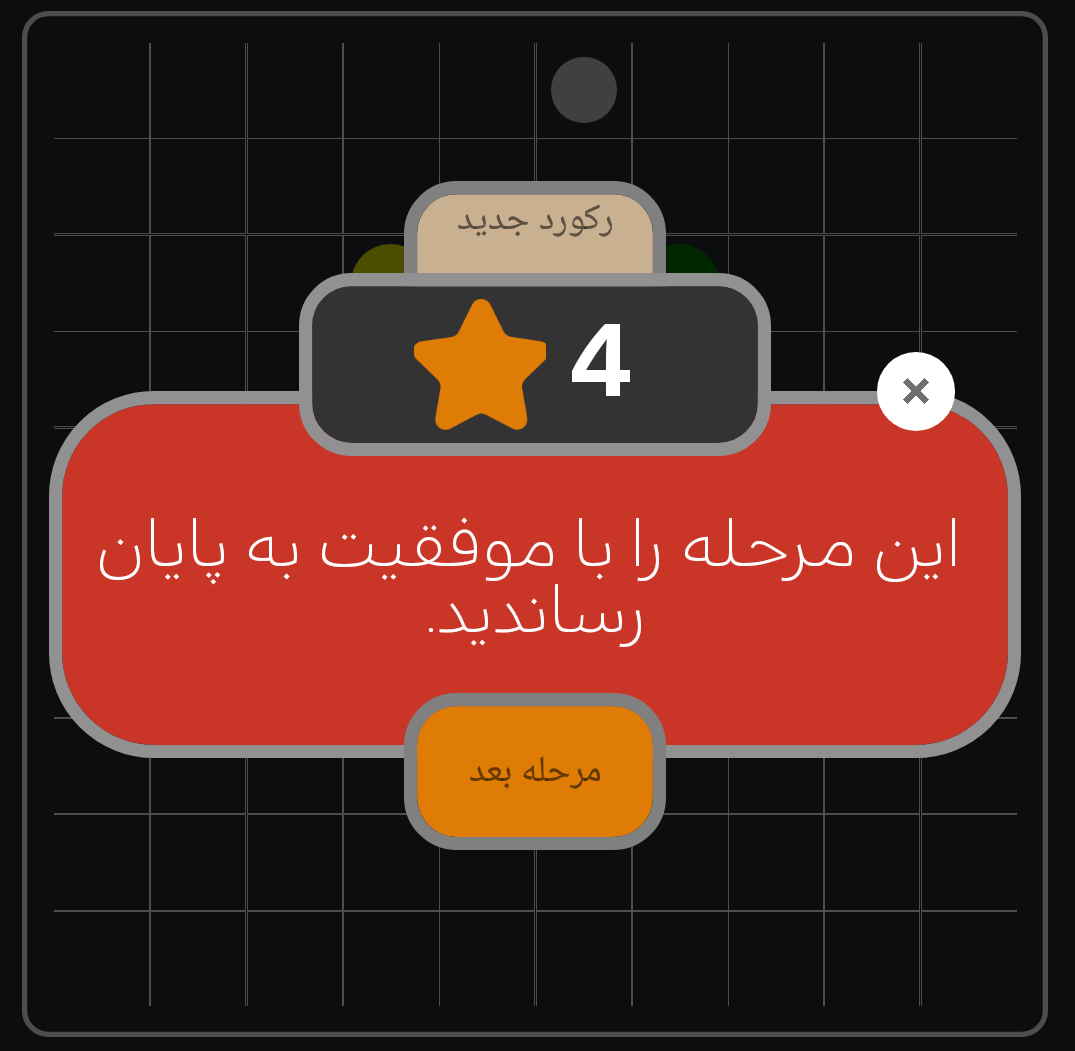
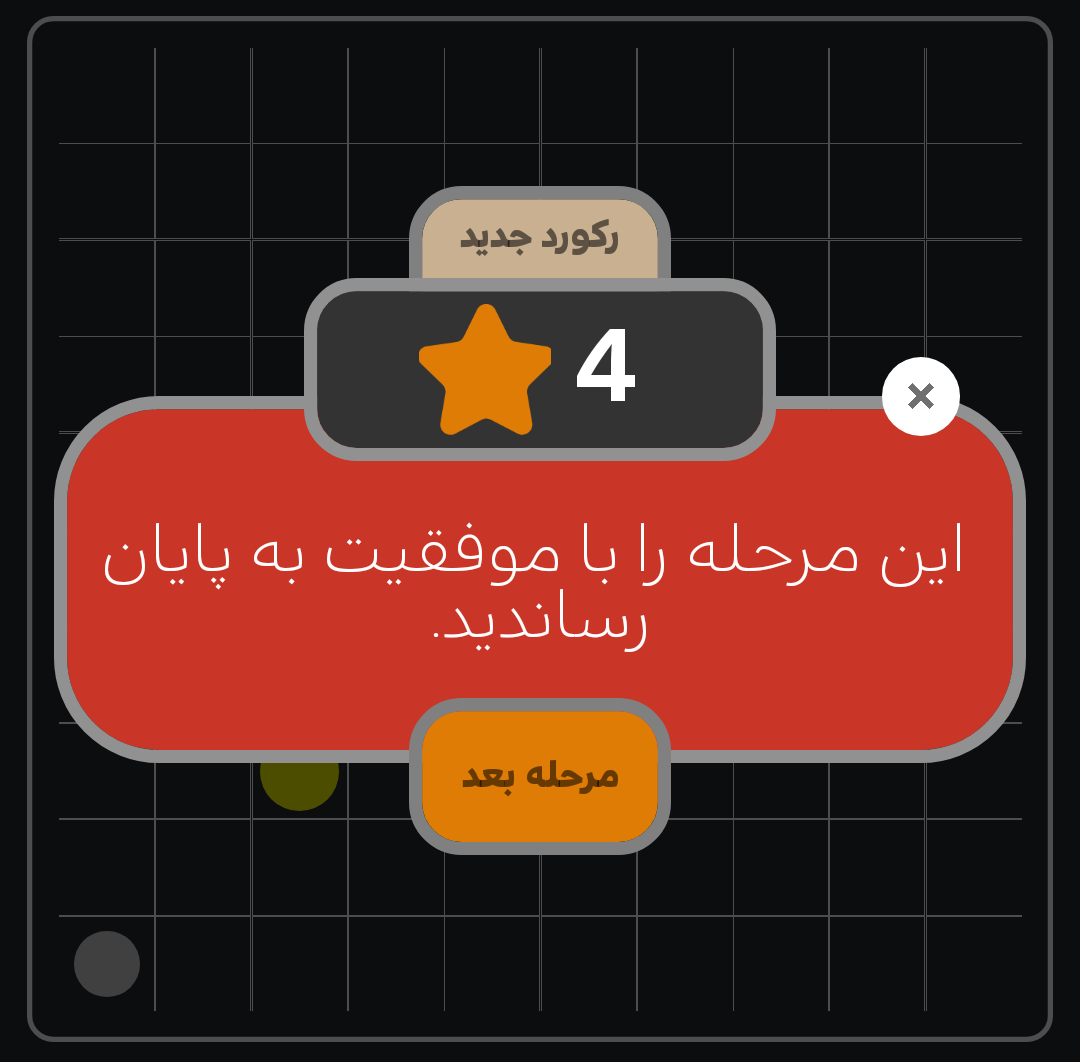
change color win and touch area

diff --git a/src/routes/intro/container.js b/src/routes/intro/container.js
@@ -18,6 +18,7 @@ const slides = [
     {
         key: 'empty-board',
         title: 'صفحه خالی',
+        titleStyle: {fontSize: 20, fontFamily: 'DiodrumArabic-Bold', color: COLOR.AJORY},
         text: 'برای شروع بازی باید در صفحه خالی روی یکی از خانه های مربع کلیک کنید.',
         image: require('../../assets/img/empty-board.png'),
         imageStyle: styles.image,
@@ -26,6 +27,7 @@ const slides = [
     {
         key: 'available',
         title: 'قواعد حرکتی',
+        titleStyle: {fontSize: 20, fontFamily: 'DiodrumArabic-Bold', color: COLOR.AJORY},
         text: 'هر نقطه ای که باشید فقط مجاز به انتخاب یکی از نقاط سفید رنگ طبق الگوی شکل هستید.',
         image: require('../../assets/img/available.png'),
         imageStyle: styles.image,
@@ -34,6 +36,7 @@ const slides = [
     {
         key: 'step1',
         title: 'مرحله اول',
+        titleStyle: {fontSize: 20, fontFamily: 'DiodrumArabic-Bold', color: COLOR.AJORY},
         text: 'با توجه به قواعد حرکتی تمام نقاط سفید را سبز کنید.',
         image: require('../../assets/img/step1.png'),
         imageStyle: styles.image,
@@ -42,6 +45,7 @@ const slides = [
     {
         key: 'step2',
         title: 'مرحله دوم',
+        titleStyle: {fontSize: 20, fontFamily: 'DiodrumArabic-Bold', color: COLOR.AJORY},
         text: 'با توجه به قواعد حرکتی تمام نقاط سفید را سبز کنید. زرد آخرین خانه ای است که بازی کرده اید.',
         image: require('../../assets/img/step2.png'),
         imageStyle: styles.image,
@@ -50,6 +54,7 @@ const slides = [
     {
         key: 'step2-1',
         title: 'مرحله دوم',
+        titleStyle: {fontSize: 20, fontFamily: 'DiodrumArabic-Bold', color: COLOR.AJORY},
         text: 'با توجه به قواعد حرکتی تمام نقاط سفید را سبز کنید. زرد آخرین خانه ای است که بازی کرده اید.',
         image: require('../../assets/img/step2-1.png'),
         imageStyle: styles.image,
@@ -58,6 +63,7 @@ const slides = [
     {
         key: 'step3',
         title: 'مرحله سوم',
+        titleStyle: {fontSize: 20, fontFamily: 'DiodrumArabic-Bold', color: COLOR.AJORY},
         text: 'با توجه به قواعد حرکتی تمام نقاط سفید را سبز کنید. زرد آخرین خانه ای است که بازی کرده اید.',
         image: require('../../assets/img/step3.png'),
         imageStyle: styles.image,
@@ -66,6 +72,7 @@ const slides = [
     {
         key: 'step3-1',
         title: 'مرحله سوم',
+        titleStyle: {fontSize: 20, fontFamily: 'DiodrumArabic-Bold', color: COLOR.AJORY},
         text: 'با توجه به قواعد حرکتی تمام نقاط سفید را سبز کنید. زرد آخرین خانه ای است که بازی کرده اید.',
         image: require('../../assets/img/step3-1.png'),
         imageStyle: styles.image,
@@ -74,6 +81,7 @@ const slides = [
     {
         key: 'step3-2',
         title: 'مرحله سوم',
+        titleStyle: {fontSize: 20, fontFamily: 'DiodrumArabic-Bold', color: COLOR.AJORY},
         text: 'با توجه به قواعد حرکتی تمام نقاط سفید را سبز کنید. زرد آخرین خانه ای است که بازی کرده اید.',
         image: require('../../assets/img/step3-2.png'),
         imageStyle: styles.image,
@@ -82,6 +90,7 @@ const slides = [
     {
         key: 'points',
         title: 'محاسبه امتیاز',
+        titleStyle: {fontSize: 20, fontFamily: 'DiodrumArabic-Bold', color: COLOR.AJORY},
         text: 'هر مرحله را که به پایان برسانید یک جان دریافت می کنید. بر روی نقاط غیرمجاز حرکتی کلیک کنید یک جان از دست می دهید.',
         image: require('../../assets/img/win.png'),
         imageStyle: styles.image,
@@ -109,10 +118,10 @@ class IntroScreenContainer extends Component<{}> {
         this.props.showRealApp();
         Actions.BoardScreen({type: 'reset'})
     };
-    onSlideChange = (index, lastIndex)=>{
-        if(index >= 3 && index !== slides.length - 1) {
+    onSlideChange = (index, lastIndex) => {
+        if (index >= 3 && index !== slides.length - 1) {
             this.setState({showSkip: true})
-        } else if (index === slides.length - 1){
+        } else if (index === slides.length - 1) {
             this.setState({showSkip: false})
         }
     };

diff --git a/src/routes/board/index.android.js b/src/routes/board/index.android.js
@@ -125,7 +125,12 @@ export default class BoardScreen extends Component<{}> {
                 <View style={{flexDirection: 'row', justifyContent: 'center', alignItems: 'center', height: 150}}>
                     <View style={{flexDirection: 'row', flex: 1, justifyContent: 'center', alignItems: 'center'}}>
                         <Image source={require('../../assets/img/heart.png')} style={{width: 40, height: 40}}/>
-                        <Text style={{fontSize: 30, color:'white', marginLeft: 5}}>{this.props.lives}</Text>
+                        <Text style={{
+                            fontSize: 30,
+                            color: 'white',
+                            marginLeft: 5,
+                            fontFamily: 'DiodrumArabic-Medium'
+                        }}>{this.props.lives}</Text>
                     </View>
                     <View style={{flexDirection: 'row', flex: 1, justifyContent: 'center'}}>
                         <View style={{
@@ -137,33 +142,25 @@ export default class BoardScreen extends Component<{}> {
                             justifyContent: 'center',
                             alignItems: 'center'
                         }}>
-                            <Text style={{color: 'white'}}>{I18n.t(LanguageKeys.Level)}</Text>
-                            <Text style={{color: 'white'}}>{this.props.level}</Text>
+                            <Text style={{
+                                color: 'white',
+                                fontFamily: 'DiodrumArabic-Bold'
+                            }}>{I18n.t(LanguageKeys.Level)}</Text>
+                            <Text style={{color: 'white', fontFamily: 'DiodrumArabic-Bold'}}>{this.props.level}</Text>
                         </View>
                     </View>
                     <View style={{flexDirection: 'row', flex: 1, justifyContent: 'center'}}>
-                        <TouchableWithoutFeedback onPress={()=>{
+                        <TouchableWithoutFeedback onPress={() => {
                             this.props.undo();
                         }}>
                             <Image source={require('../../assets/img/undo.png')} style={{width: 40, height: 40}}/>
                         </TouchableWithoutFeedback>
 
-                        <TouchableWithoutFeedback onPress={()=>{
+                        <TouchableWithoutFeedback onPress={() => {
                             this.props.help();
                         }}>
                             <Image source={require('../../assets/img/guide.png')} style={{width: 40, height: 40}}/>
                         </TouchableWithoutFeedback>
-
-                        {/*<Button*/}
-                            {/*title={'undo'}*/}
-                            {/*onPress={() => {*/}
-                                {/*this.props.undo();*/}
-                            {/*}}/>*/}
-                        {/*<Button*/}
-                            {/*title={'guid'}*/}
-                            {/*onPress={() => {*/}
-                                {/*this.props.help();*/}
-                            {/*}}/>*/}
                     </View>
                 </View>
 
@@ -207,7 +204,7 @@ export default class BoardScreen extends Component<{}> {
 
                     }}>
                     {/*<Image source={require('../../assets/img/coke.png')}*/}
-                           {/*style={{flex: 1, resizeMode: 'stretch'}}/>*/}
+                    {/*style={{flex: 1, resizeMode: 'stretch'}}/>*/}
                 </View>
             </View>
         )

diff --git a/src/components/alert.js b/src/components/alert.js
@@ -24,7 +24,7 @@ export default class Alert extends Component<{}> {
                         alignItems: 'center',
                         borderWidth: 5,
                         top: 50
-                    }}><Text>{this.props.bigTitle}</Text></View>
+                    }}><Text style={{fontFamily: 'DiodrumArabic-Bold'}}>{this.props.bigTitle}</Text></View>
                 <View style={{
                     flexDirection: 'row',
                     justifyContent: 'center',
@@ -49,7 +49,7 @@ export default class Alert extends Component<{}> {
                 <View style={{
                     width: '100%',
                     height: 140,
-                    backgroundColor: '#C93527',
+                    backgroundColor: COLOR.AJORY,
                     borderRadius: 40,
                     borderColor: '#919191',
                     borderWidth: 5
@@ -88,23 +88,28 @@ export default class Alert extends Component<{}> {
                         fontFamily: 'DiodrumArabic-Light'
                     }}>{this.props.title}</Text>
                 </View>
-                <View style={{
-                    width: 100,
-                    height: 60,
-                    backgroundColor: '#DF7C06',
-                    position: 'relative',
-                    borderRadius: 20,
-                    borderColor: 'gray',
-                    justifyContent: 'center',
-                    alignItems: 'center',
-                    borderWidth: 5,
-                    top: -25,
-                    zIndex: 1,
-                }}>
-                    <Text onPress={() => {
+                <TouchableWithoutFeedback
+                    onPress={() => {
                         this.props.yesCallBack()
-                    }}>{this.props.yesCallBackText}</Text>
-                </View>
+                    }}
+                >
+                    <View style={{
+                        width: 100,
+                        height: 60,
+                        backgroundColor: '#DF7C06',
+                        position: 'relative',
+                        borderRadius: 20,
+                        borderColor: 'gray',
+                        justifyContent: 'center',
+                        alignItems: 'center',
+                        borderWidth: 5,
+                        top: -25,
+                        zIndex: 1,
+                    }}>
+
+                        <Text style={{fontFamily: 'DiodrumArabic-Bold'}}>{this.props.yesCallBackText}</Text>
+                    </View>
+                </TouchableWithoutFeedback>
             </View>
         );
     }

diff --git a/src/components/hoc/showToast.js b/src/components/hoc/showToast.js
@@ -1,6 +1,7 @@
 import React, {Component} from 'react';
 import {View} from 'react-native';
 import Toast, {DURATION} from 'react-native-easy-toast'
+import {COLOR} from "../helpers/colorPalette";
 
 
 export default (Comp) => {
@@ -9,11 +10,12 @@ export default (Comp) => {
         static navigationOptions = {
             header: null,
         };
+
         constructor(props) {
             super(props);
         }
 
-        showToast = (message, duration = DURATION.LENGTH_LONG * 2 ) => {
+        showToast = (message, duration = DURATION.LENGTH_SHORT * 2) => {
             this.refs.toast.show(message, duration);
         };
 
@@ -25,7 +27,9 @@ export default (Comp) => {
                     <Comp {...props} showToast={this.showToast}>
                         {children}
                     </Comp>
-                    <Toast ref="toast"/>
+                    <Toast style={{backgroundColor: COLOR.BACK_GROUND_COLOR}}
+                           textStyle={{color: COLOR.WHITE, fontSize: 13, fontFamily: 'DiodrumArabic-Bold'}}
+                           ref="toast"/>
                 </View>
             )
         }

diff --git a/src/app/App.js b/src/app/App.js
@@ -9,7 +9,9 @@ import ConfigContainer from '../routes/config/container';
 import HowPlayScreen from '../routes/howPlay/container';
 import IntroScreen from '../routes/intro/container';
 import {View} from 'react-native';
-if(__DEV__) {
+import {COLOR} from "../components/helpers/colorPalette";
+
+if (__DEV__) {
     import('../dev').then(() => console.log('Reactotron Configured'))
 }
 
@@ -27,7 +29,7 @@ export default class App extends Component {
         return (
             <Provider store={store}>
                 <PersistGate
-                    loading={<View style={{width: '100%', height: '100%', backgroundColor: 'cyan'}}/>}
+                    loading={<View style={{width: '100%', height: '100%', backgroundColor: COLOR.BACK_GROUND_COLOR}}/>}
                     onBeforeLift={onBeforeLift}
                     persistor={persistor}>
                     <RouterWithRedux>

diff --git a/src/components/helpers/colorPalette.js b/src/components/helpers/colorPalette.js
@@ -10,5 +10,6 @@ export const COLOR = {
     BLACK: '#5f5f5f',
     WHITE: 'white',
     YELLOW: 'yellow',
-    BACK_GROUND_COLOR: '#272B33'
+    BACK_GROUND_COLOR: '#272B33',
+    AJORY: '#C93527',
 };
